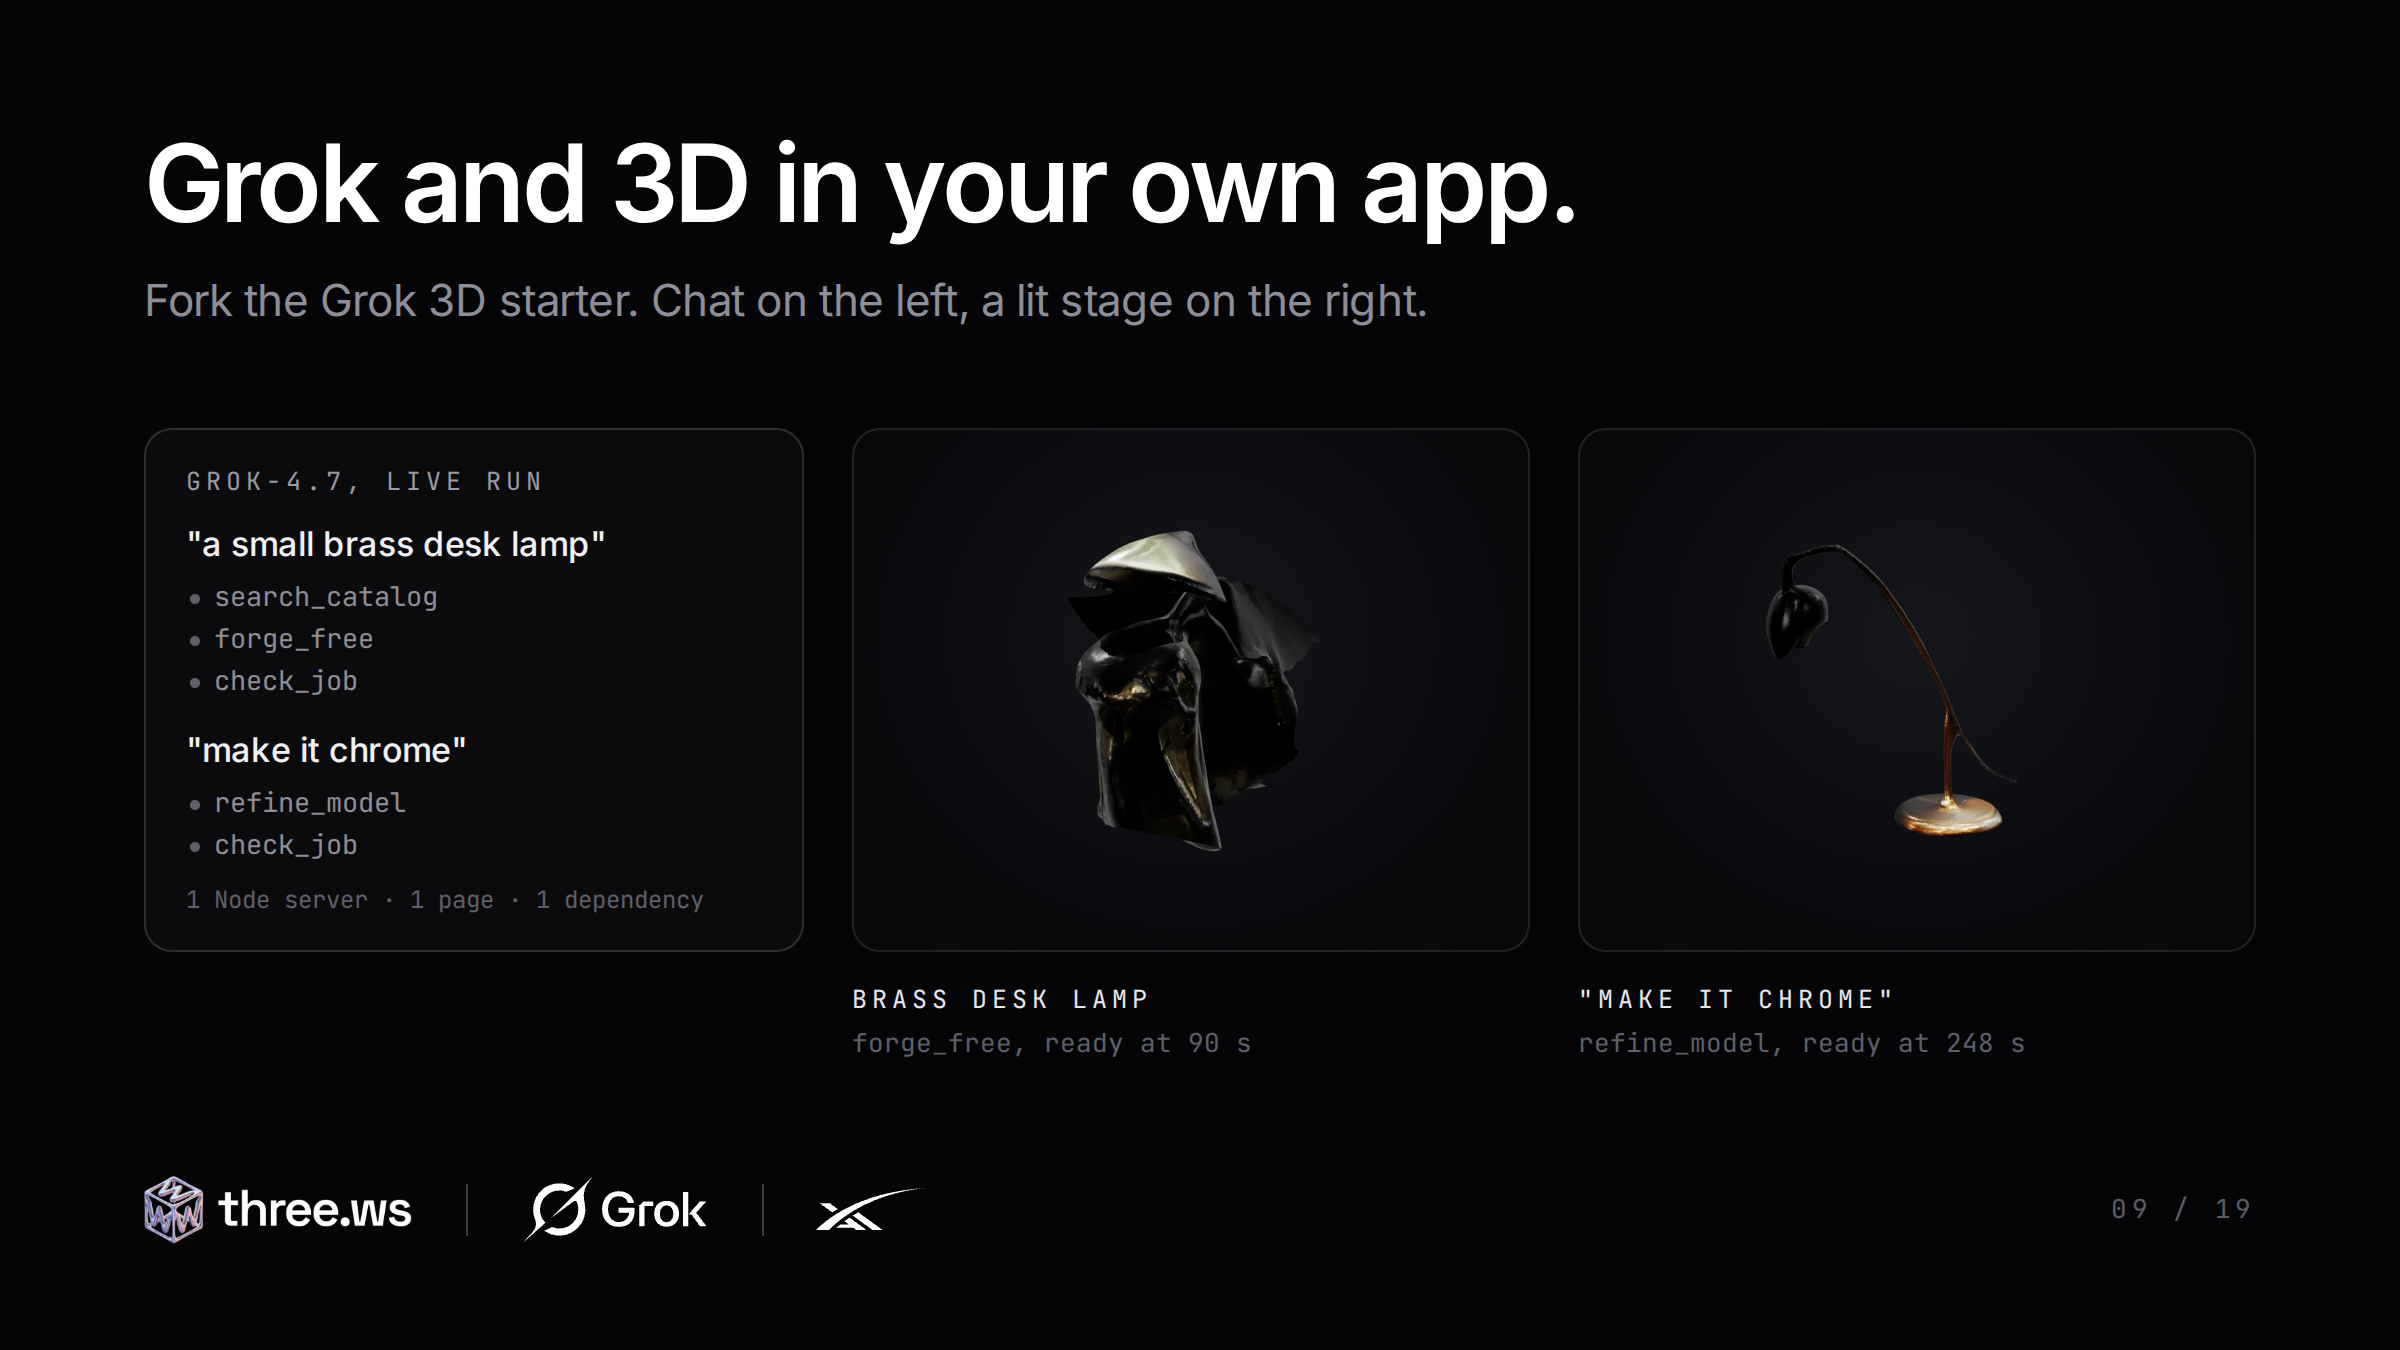
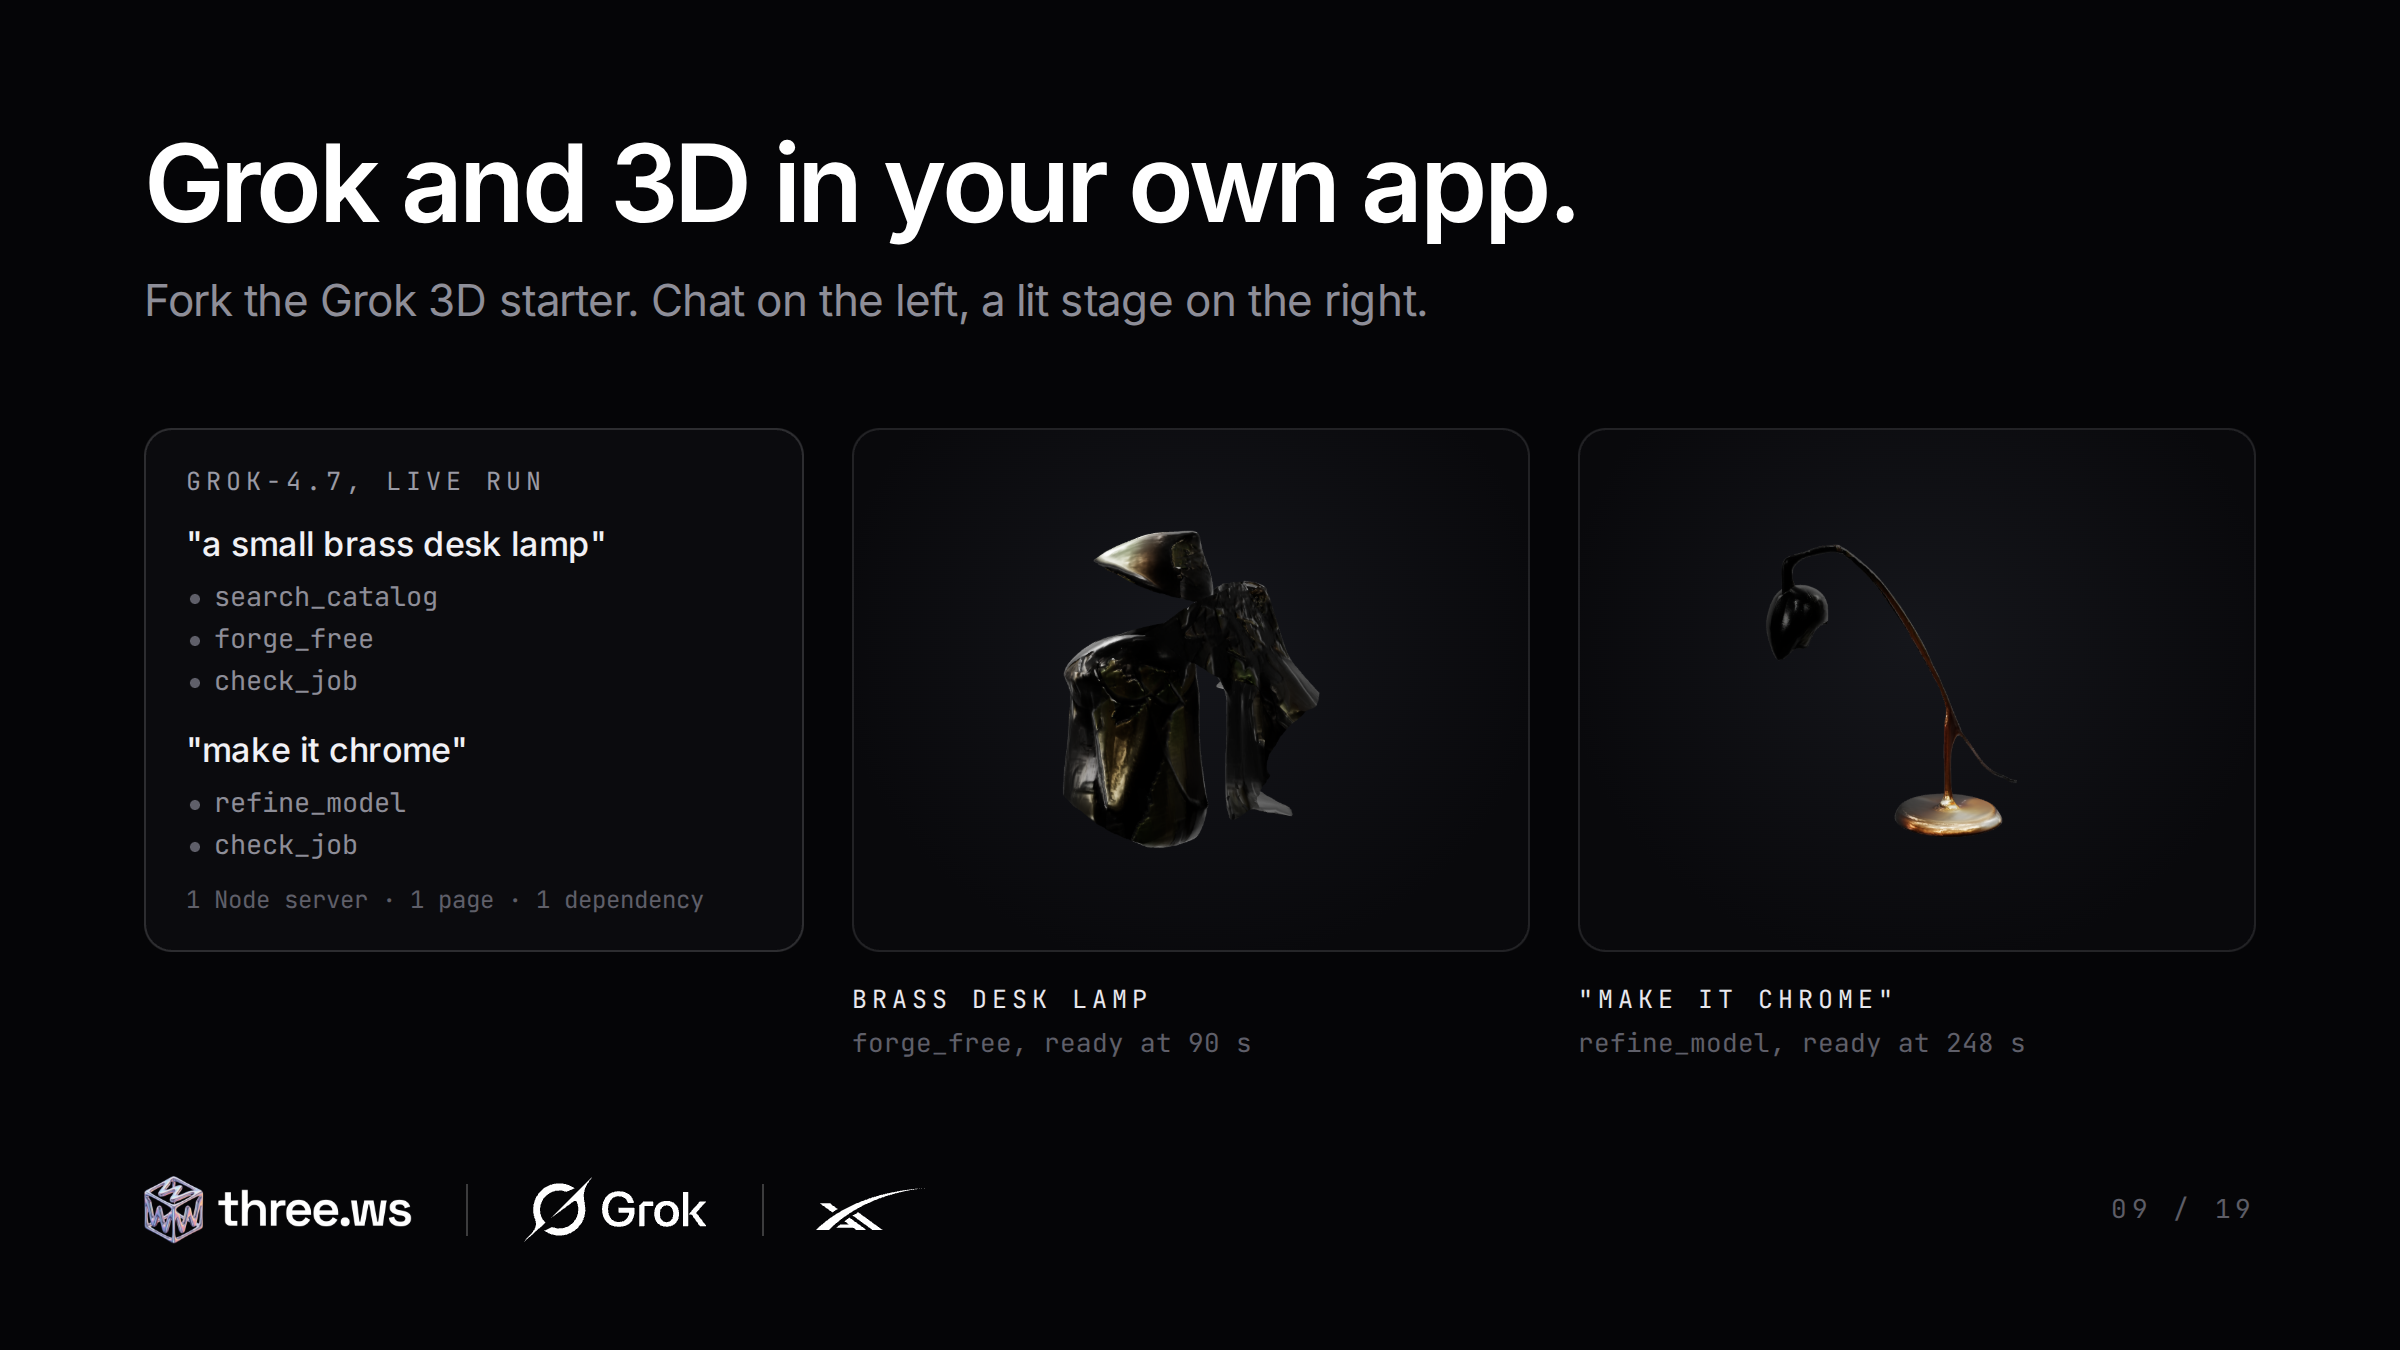
feat(x-media): refresh the repost cards with live numbers and the post 17 model set, and update the repost order

Changed region(s): [[0.4375, 0.3733, 0.5625, 0.6222]]

diff --git a/prompts/finish/452-grok-fix-02-repost-thread-honest.md b/prompts/finish/452-grok-fix-02-repost-thread-honest.md
@@ -8,9 +8,11 @@
 
 ## The owner's decision (do not re-litigate)
 
-On 2026-11-27 xAI asked us to take the 2026-11-25 thread down because the program gives credits and does not include co-marketing. The owner decided: **keep the original thread exactly as written, remove only the co-marketing clause from post 1, and add posts for the Grok work built since.** "The first crypto-native company approved", "our plugin is headed to the Grok Bot, Grok Build and @cursor_ai marketplaces", the original numbers' framing, and the original tags all stay. Do not cut or soften them. Do not reintroduce co-marketing, a working relationship with the xAI, SpaceXSI or Cursor teams, or a @SpaceXSI tag.
+On 2026-11-27 xAI asked us to take the 2026-11-25 thread down because the program gives credits and does not include co-marketing. The owner decided: **keep the original thread exactly as written, remove only the co-marketing clause from post 1, and add posts for the Grok work built since.** "The first crypto-native company approved", "our plugin is headed to the Grok Bot, Grok Build and @cursor_ai marketplaces", the original numbers' framing, and the original tags all stay. Do not cut or soften them. Do not reintroduce co-marketing or a working relationship with the xAI, SpaceXSI or Cursor teams.
 
-The draft is [docs/x-posts/2026-11-27-grok-for-startups-repost.md](../../docs/x-posts/2026-11-27-grok-for-startups-repost.md): nineteen posts, complete except post 14 (evals) and the refreshed numbers in posts 3, 15 and 16. `docs/x-posts/2026-11-25-grok-for-startups-announcement.md` holds a stricter rewrite (`ed86dc046`) that the owner did not choose; leave it alone and do not copy from it.
+Owner decisions of 2026-11-27, also final: tags are company accounts only, never individual staff. Post 1 mentions @SpaceXSI as a plain company mention with no relationship claim, and the personal tag that was in post 6 stays removed. The repost carries no error count: post 15 and its card drop "2 errors", so never add an error figure back. Media is clean black cards drawn by `scripts/grok-startups-repost-cards.mjs`, with video only where a real render exists (posts 1, 4 and 5), and the 3D subjects on the cards are a rocket, an electric sports car, an electric pickup and a humanoid robot.
+
+The draft is [docs/x-posts/2026-11-27-grok-for-startups-repost.md](../../docs/x-posts/2026-11-27-grok-for-startups-repost.md): nineteen posts, complete except post 14 (evals) and the refreshed numbers in posts 3, 15 and 16. Its media is in `public/x-media/grok-startups-repost/` (one file per post, listed in the draft's Media section). `docs/x-posts/2026-11-25-grok-for-startups-announcement.md` holds a stricter rewrite (`ed86dc046`) that the owner did not choose; leave it alone and do not copy from it.
 
 ## Step 0
 
@@ -24,7 +26,7 @@ The draft is [docs/x-posts/2026-11-27-grok-for-startups-repost.md](../../docs/x-
 
 ## Tasks
 
-1. **Refresh posts 3, 15 and 16.** `node scripts/grok-comarketing-numbers.mjs --from 2026-10-08 --to <yesterday>` (read its header for flags). Update the figures in post 3 ("426 checks") and post 15 (tool calls, days, errors, the five generation counts, distinct prompts) and the window ("in 44 days") to the refreshed totals, keeping each sentence's wording otherwise identical. If the script now excludes our own probe or test traffic, use what it prints; never add our own traffic back. If the database is unreachable, keep the original figures and say so in the report. Post 16 needs no database: read `curl -s https://three.ws/api/status/mcp`, take the Grok server's `windows.7d` `passed`, `probes` and `handshakeP50Ms`, and update "1,628 of 1,636 checks" and "158 ms". If fewer than 95% of checks passed, cut post 16.
+1. **Refresh posts 3, 15 and 16.** `node scripts/grok-comarketing-numbers.mjs --from 2026-10-08 --to <yesterday>` (read its header for flags). Update the figures in post 3 ("426 checks") and post 15 (tool calls, days, the five generation counts, distinct prompts) and the window ("in 44 days") to the refreshed totals, keeping each sentence's wording otherwise identical. Write the same figures to `public/x-media/grok-startups-repost/src/usage.json` so the cards match the text: keys `window` (the card's label), `calls`, `days` ("N of N"), `prompts`, `renders` and `weeks` (`[["Oct 5", 1125], ...]`, week starts), formatted as in `USAGE` in `scripts/lib/grok-startups-cards.mjs`; never edit `USAGE` itself, which the 2026-11-25 thread's cards read. If the script now excludes our own probe or test traffic, use what it prints; never add our own traffic back. If the database is unreachable, keep the original figures and say so in the report. Post 16 needs no database: read `curl -s https://three.ws/api/status/mcp`, take the Grok server's `windows.7d` `passed`, `probes` and `handshakeP50Ms`, and update the checks-passed counts and the median handshake in the post's second paragraph. Task 4 below re-renders the post 16 card from the same endpoint; the text must match the `src/live.json` that render writes, so take the figures from that file after rendering. If fewer than 95% of checks passed, cut post 16.
 2. **Fill post 14** from the evals, by the rules in the draft's "Post 14: how order 452 fills it" section. Read `docs/evals/grok-4-7-on-three-ws.md` and `docs/evals/grok-imagine-ref-image.md` and `git log -3` on each: use only a Grok column that came from a real run (the progress log names the run). Replace the `EVAL_HOOK` and `EVAL_BODY` placeholders with the hook and body, with figures copied from the doc. If neither has a real Grok column, delete post 14 and renumber every later post and every reference to those numbers in the file. Remove the `[NEW, FILLED BY ORDER 452]` marker either way.
 3. **Prove each post's surface is live now.** One check each, recorded in the draft's Sources section with today's date:
    - Post 5: the launch stack cutaway URL returns 200 and its page source or `/api/anatomy` record names 29 parts and 10 steps.
@@ -38,14 +40,16 @@ The draft is [docs/x-posts/2026-11-27-grok-for-startups-repost.md](../../docs/x-
    - Post 16: `/status` returns 200 and shows the Grok connector row; the probe still runs every 5 minutes (`vercel.json` crons, `api/cron/mcp-probe.js`).
    - Post 17: a production model page bundle contains the Ask @grok action (`curl -s https://three.ws/forge | grep -o 'src="[^"]*\.js"'`, then grep the bundle for `Ask @grok`), and one live `/m/<id>` model page carries `"@type":"3DModel"` JSON-LD (take a public model id from a link on `/forge` or `/explore`; the JSON-LD is built in `src/model-page.js`). If the JSON-LD is missing, drop only the "structured data" clause.
    A post whose check fails is cut and the thread renumbered; never post a claim you could not check today.
-4. **Links.** Every URL in the thread returns 200: `curl -s -o /dev/null -w '%{http_code}\n' "<url>"`. One link per post.
-5. **Format.** Every post's hook (text before its first blank quoted line) is at most 280 characters (measure it with node). Strip every `[NEW]` marker from the post headers. `grep -nP '\x{2014}|\x{2013}' <file>` prints nothing. `grep -niE 'co-market|working directly' <file>` matches only the "What changed" and "Wording rules" sections, never a post.
-6. **Status line.** Replace the draft's "Status: final assembly runs last" section with "Status: ready to post (assembled <date>)" and two lines: what step 0.2 printed, and which posts were cut, if any.
-7. Commit only the repost doc (plus `public/x-media/grok-startups-announce/launch-stack.mp4` if you rendered it, which is optional) and the progress log entry, for example `docs(x-posts): assemble the Grok for Startups repost with refreshed numbers and measured evals`.
+4. **Media.** Re-render the cards once tasks 1 to 3 are settled: `node scripts/grok-startups-repost-cards.mjs`, adding `--smoke-passed` only if the progress log shows order 458 proved all six examples live. It rewrites `post-NN.png` and `src/live.json`; then set post 16's figures from `src/live.json`. If post 14 survives, add a `post-14.png` card to that script in the same look (a figure from the eval doc, the two or three rows the post cites, the doc path as the caption) and render it with `--only post-14.png`. If a post was cut, renumber the cards to match (`RENUMBER`, the card keys and `TOTAL`). Open every PNG and check nothing overlaps or clips. Every tag in the thread is a company account (`@SpaceXSI`, `@cursor_ai`, `@XDevelopers`, `@X`, `@grok`, `@pumpdotfun`); remove any personal account.
+5. **Links.** Every URL in the thread returns 200: `curl -s -o /dev/null -w '%{http_code}\n' "<url>"`. One link per post.
+6. **Format.** Every post's hook (text before its first blank quoted line) is at most 280 characters (measure it with node). Strip every `[NEW]` marker from the post headers. `grep -nP '\x{2014}|\x{2013}' <file>` prints nothing. `grep -niE 'co-market|working directly' <file>` matches only the "What changed" and "Wording rules" sections, never a post.
+7. **Status line.** Replace the draft's "Status: final assembly runs last" section with "Status: ready to post (assembled <date>)" and two lines: what step 0.2 printed, and which posts were cut, if any.
+8. Commit the repost doc, the re-rendered `public/x-media/grok-startups-repost/` files (and any card script change) and the progress log entry, for example `docs(x-posts): assemble the Grok for Startups repost with refreshed numbers and measured evals`.
 
 ## Definition of done
 
-- [ ] Posts 1 to 4, 6, 8, 15, 18 and 19 match the original thread except post 1's removed clause, the `utm_content` tags and the refreshed figures.
+- [ ] Posts 1 to 4, 6, 8, 15, 18 and 19 match the original thread except post 1's removed clause and @SpaceXSI mention, post 6's removed personal tag, post 15's removed error count, the `utm_content` tags and the refreshed figures.
+- [ ] Tags are company accounts only. Every card in `public/x-media/grok-startups-repost/` re-rendered today and its figures match the post text.
 - [ ] Post 14 filled from a real eval run, or cut; no placeholder left. Post 16 figures read on assembly day.
 - [ ] Every post's surface checked today, every link 200, every hook at most 280 characters, no dash characters.
 - [ ] Committed with explicit paths; nothing pushed; nothing posted.
